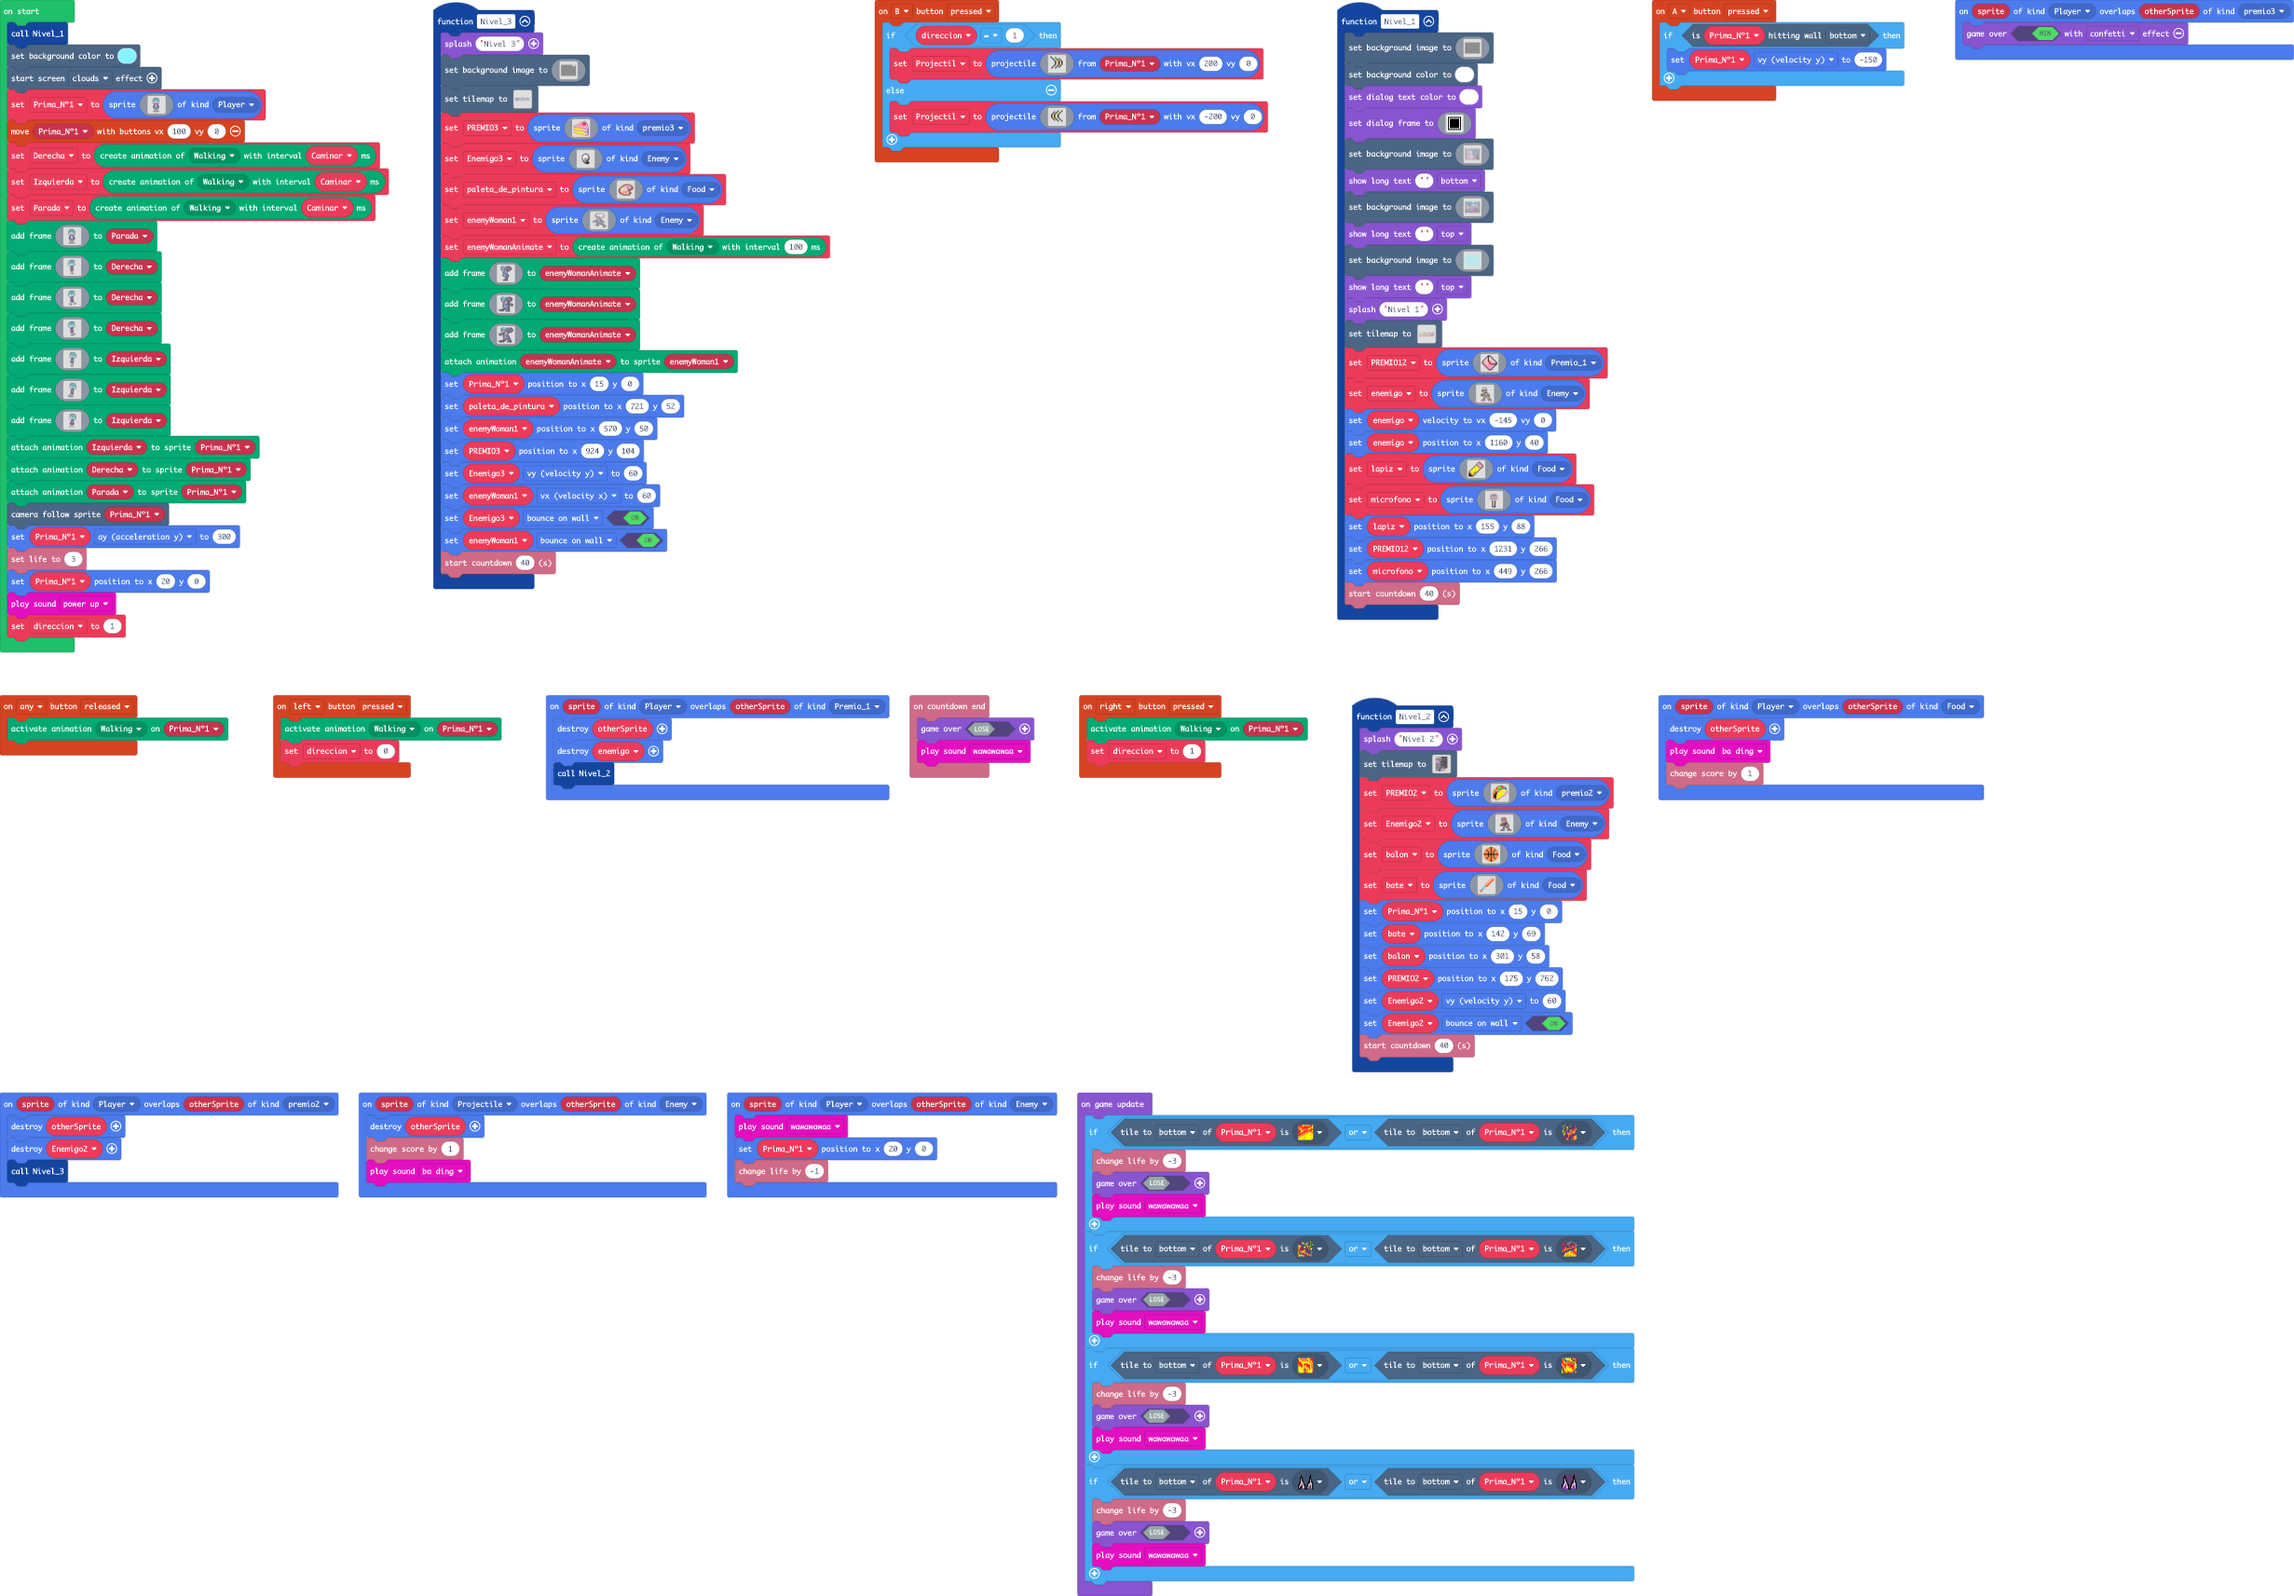
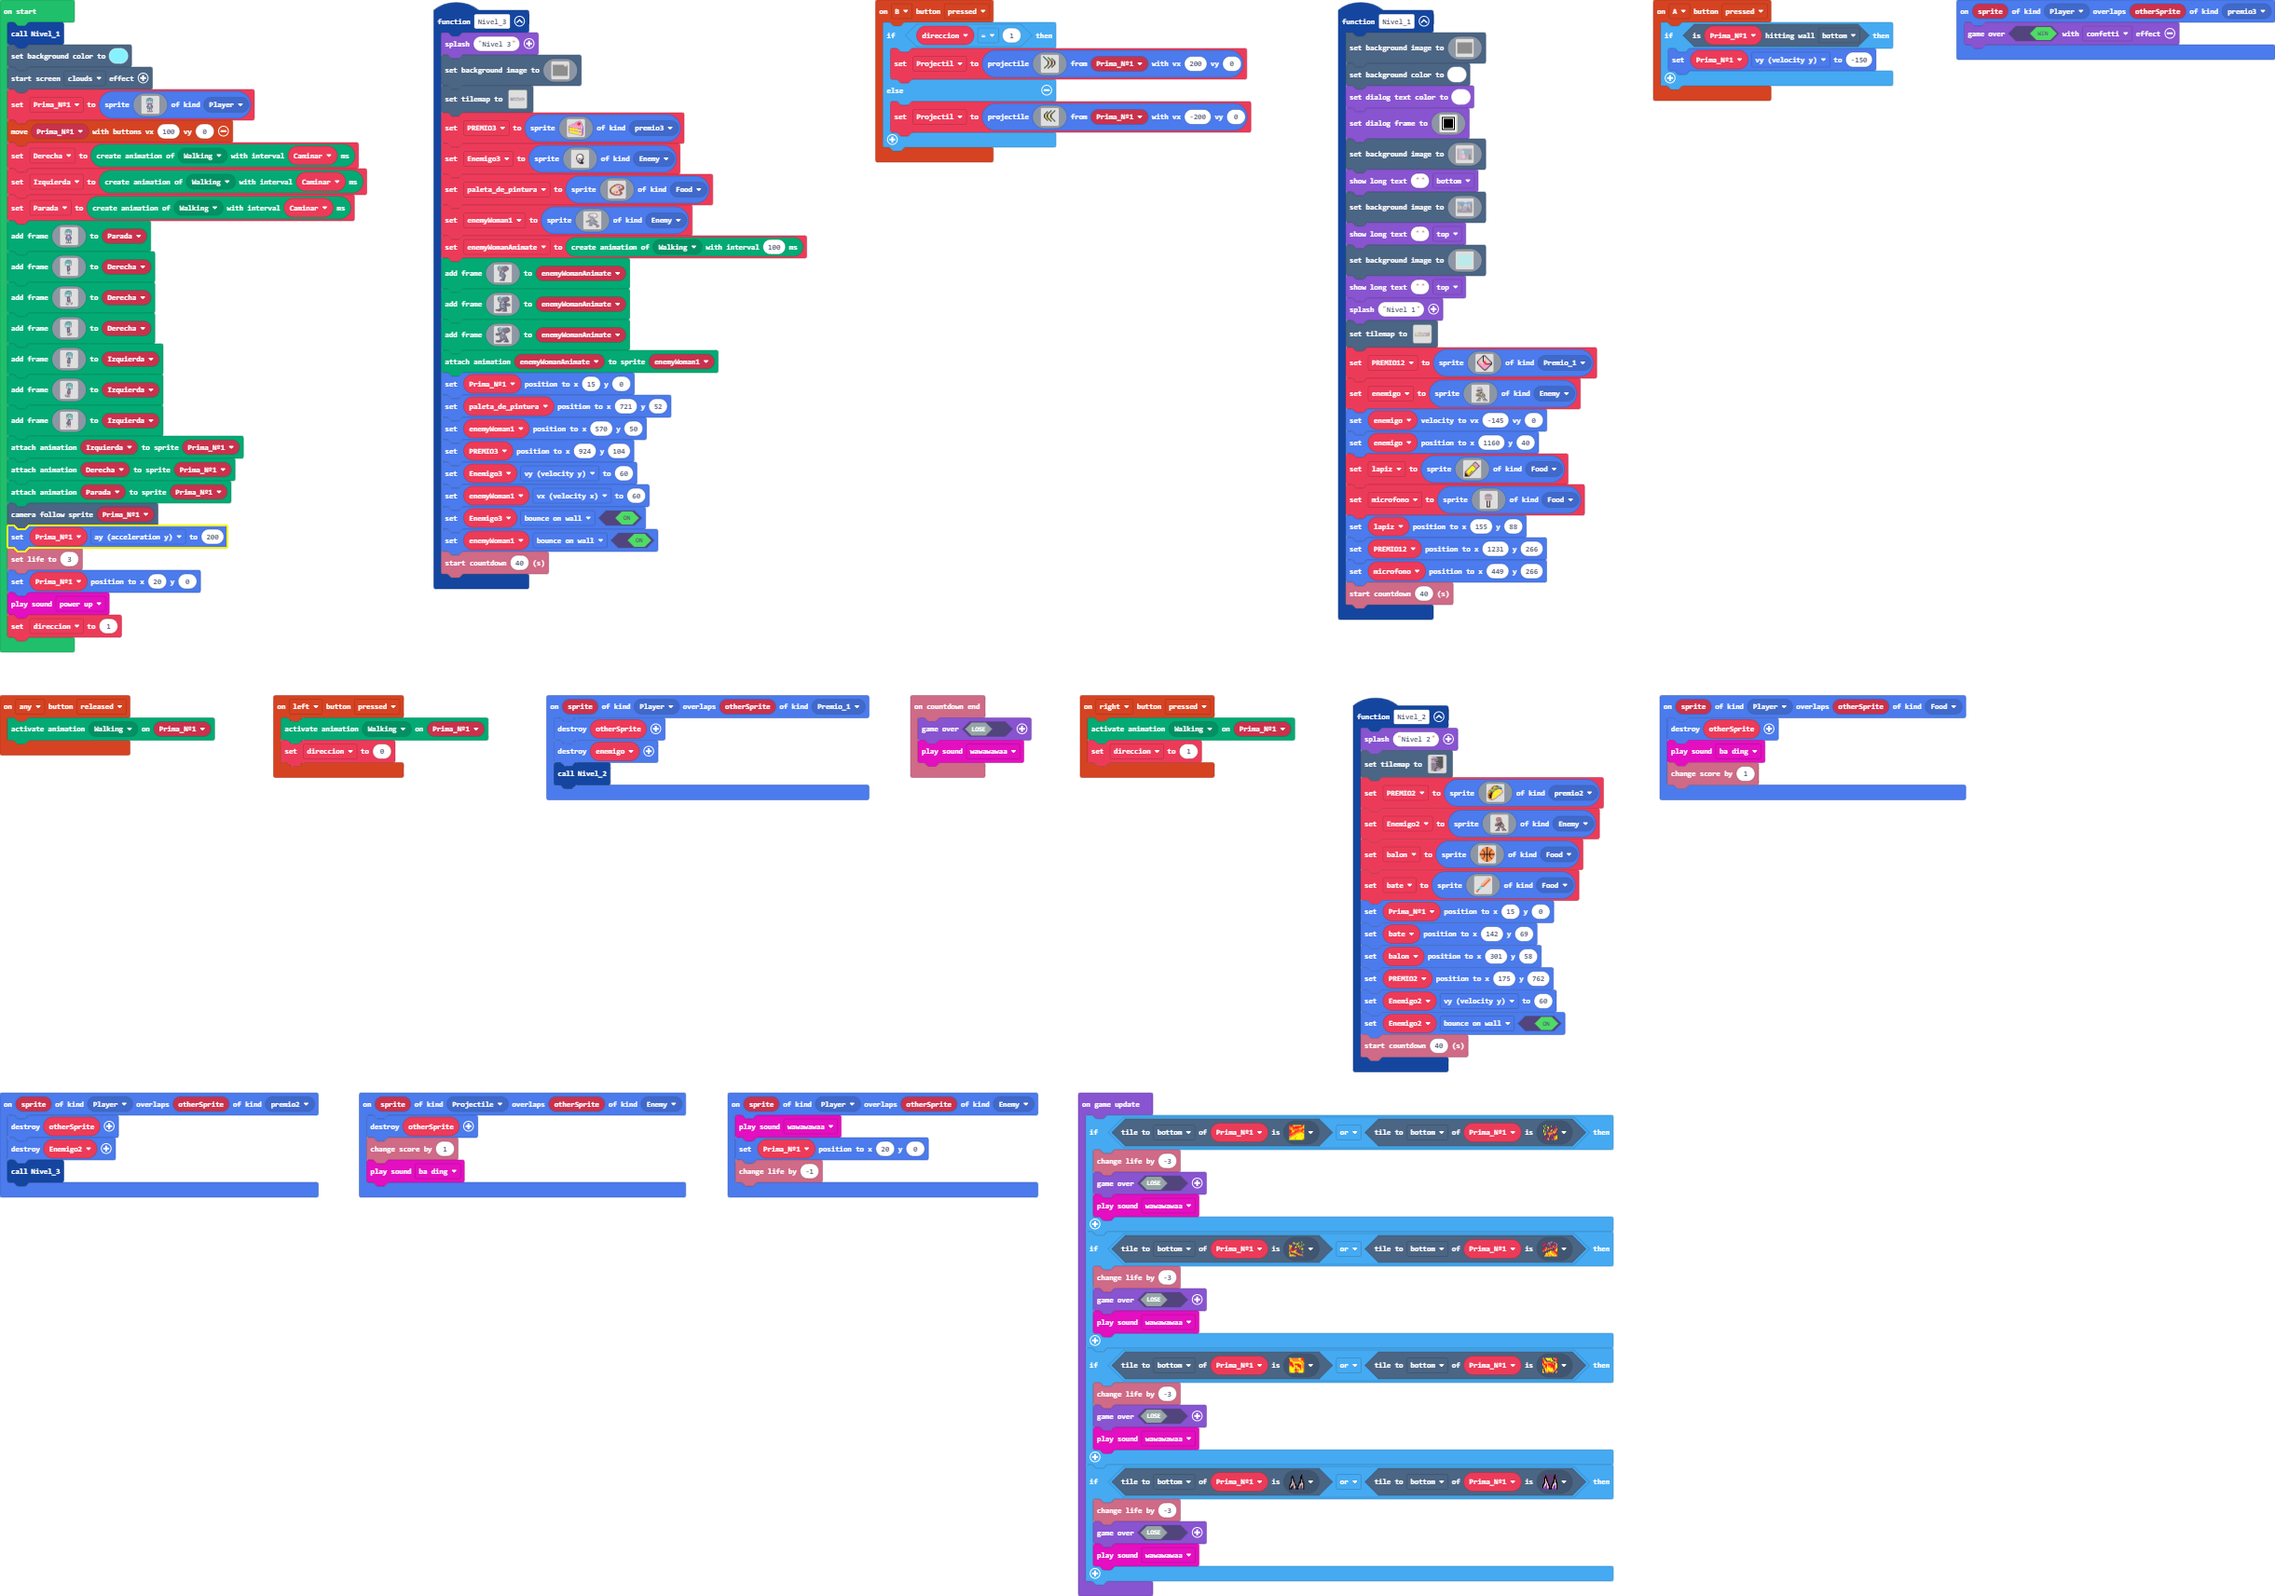
Update main.blocks, main.ts

diff --git a/main.ts b/main.ts
@@ -1818,7 +1818,7 @@ animation.attachAnimation(Prima_Nº1, Izquierda)
 animation.attachAnimation(Prima_Nº1, Derecha)
 animation.attachAnimation(Prima_Nº1, Parada)
 scene.cameraFollowSprite(Prima_Nº1)
-Prima_Nº1.ay = 300
+Prima_Nº1.ay = 200
 info.setLife(3)
 Prima_Nº1.setPosition(20, 0)
 music.powerUp.play()
